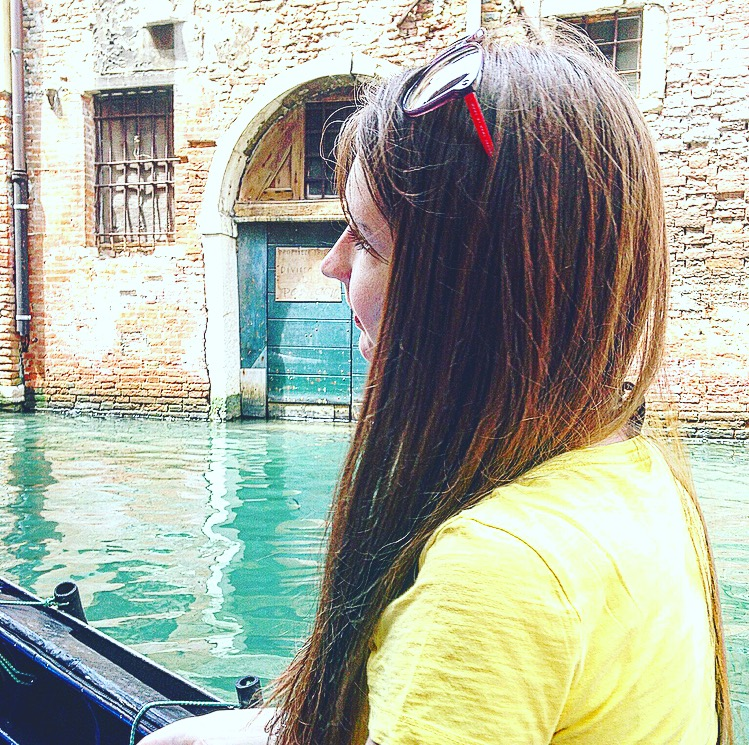
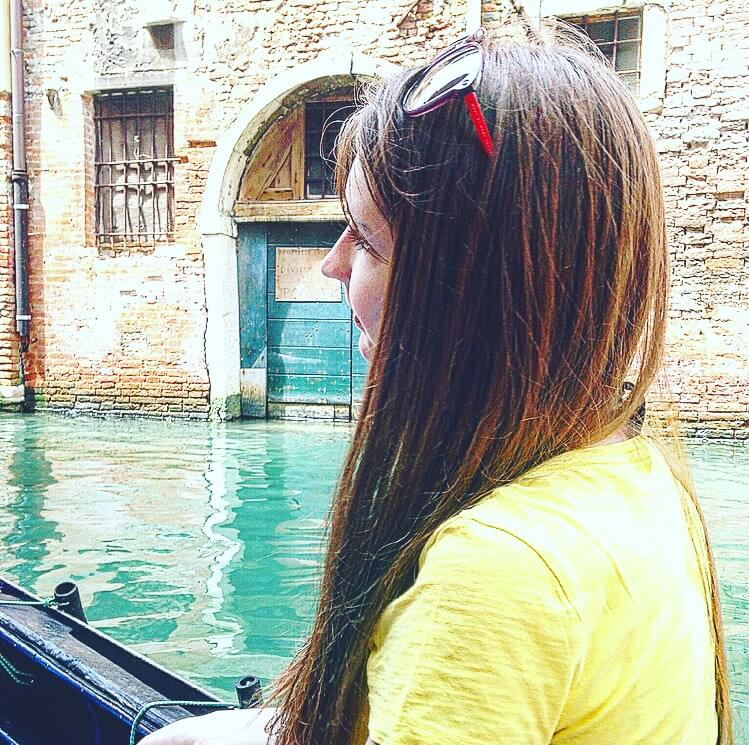
fix: изменен размер изображений, исправлен README

diff --git a/README.md b/README.md
@@ -76,13 +76,13 @@
 **Webpack** (cборка проекта);
 
 
-**Figma** (работа с макетом);
+**Figma**;
 
 
-**Работа с инструментом "Pixel Perfect"** для еще более точного соблюдения задумки дизайнера;
+**Pixel Perfect"**;
 
 
-**Работа с Git** и его инструментами для возможности опубликовать данный проект в сети Интернет.
+**GIT**
 
 
 ## Планы по дальнейшей доработке проекта
